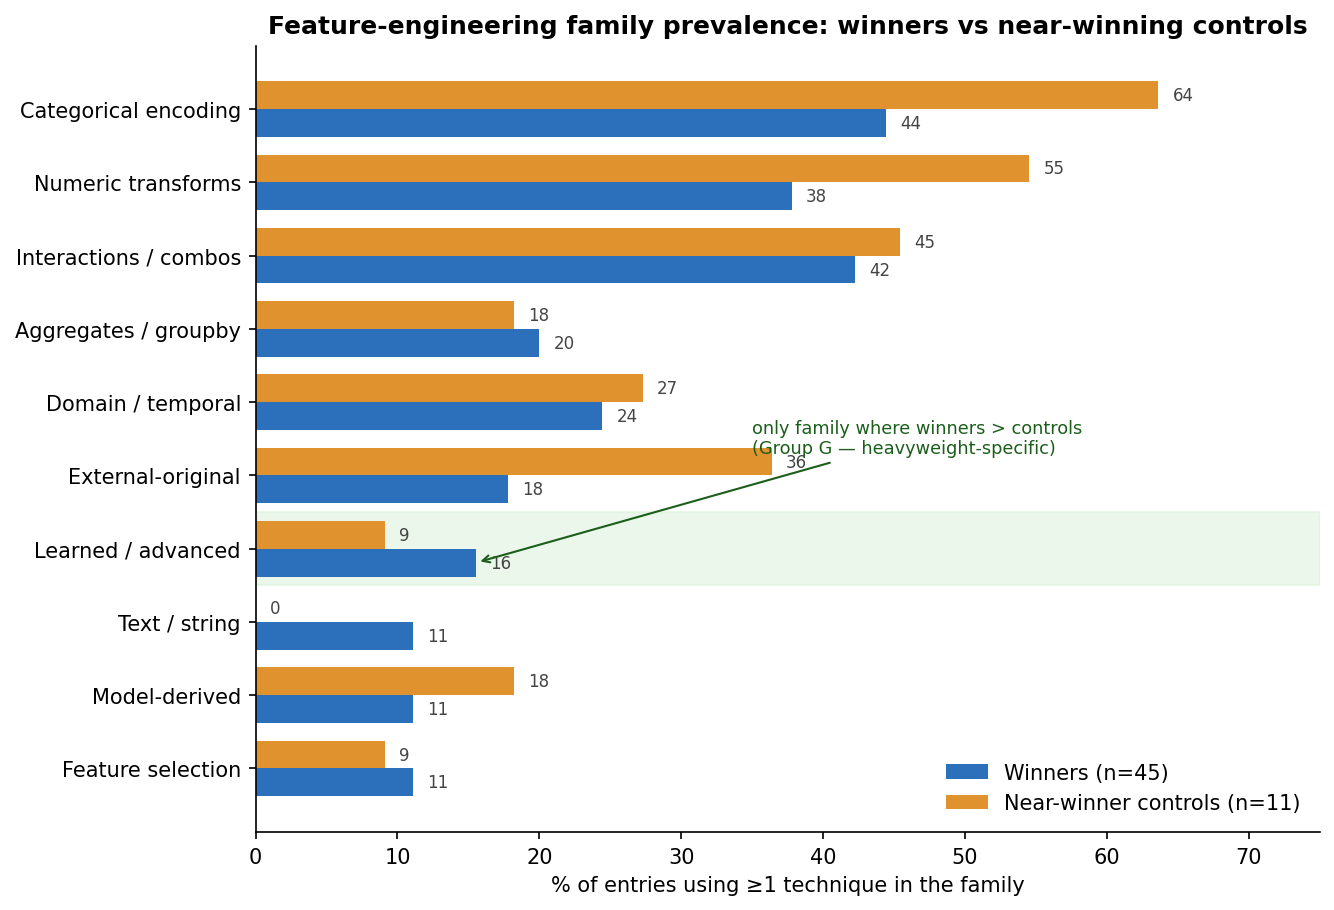
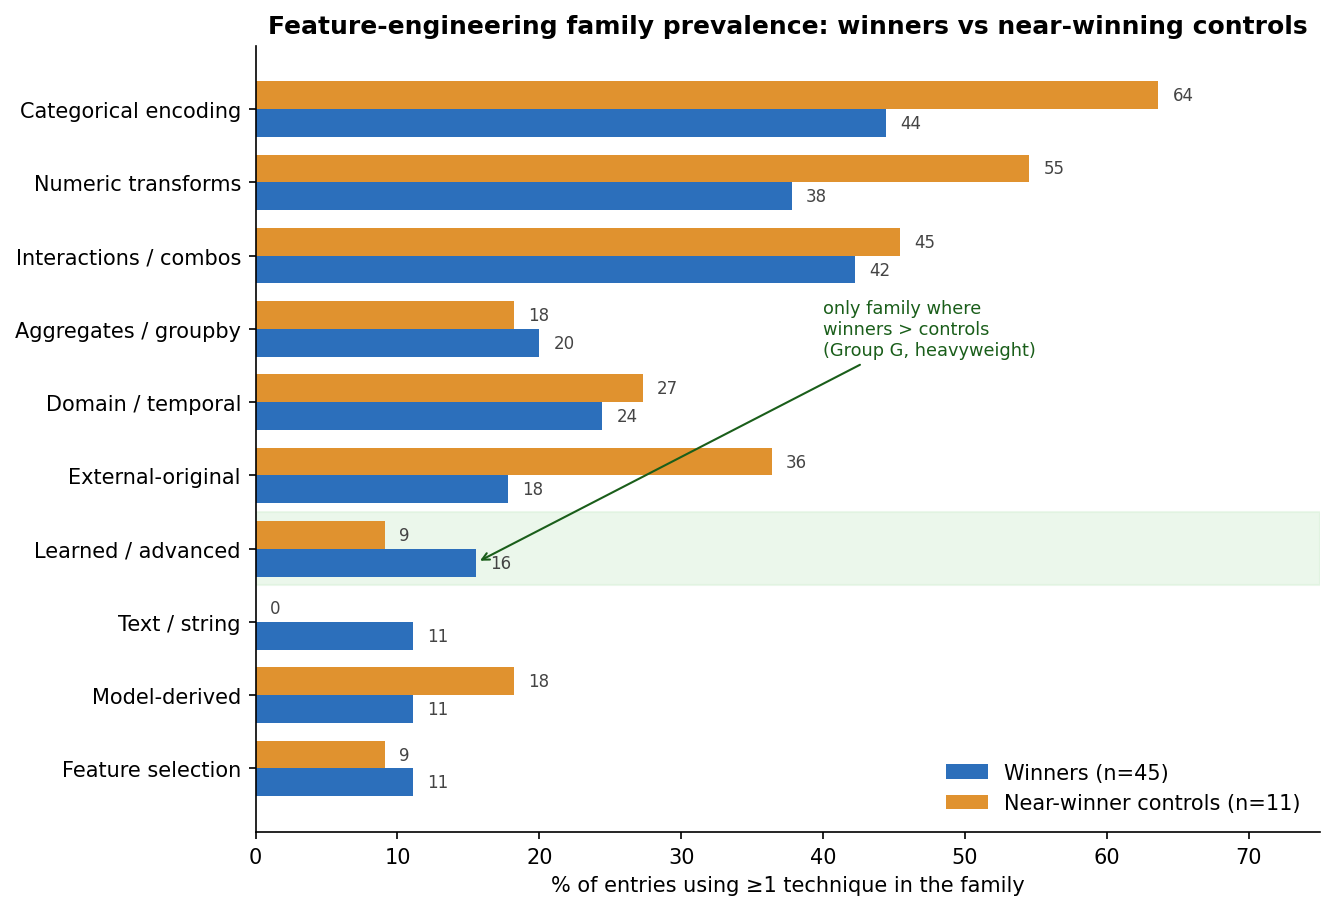
fig5: move the Group-G annotation off the bars; de-em-dash
The "only family where winners > controls" callout overlapped the External-original
bar. Repositioned it into the clear mid-right area (arrow still points to the
Learned/advanced bar), and changed "Group G -- heavyweight-specific" to
"(Group G, heavyweight)". Also fixes Figure 5 in the report (same synced figure).

diff --git a/analysis/figures/report/make_fig5_fe_prevalence.py b/analysis/figures/report/make_fig5_fe_prevalence.py
@@ -48,8 +48,9 @@ for b in (b1, b2):
 # highlight the one family where winners > controls
 gi = labels.index('Learned / advanced')
 ax.axhspan(gi - 0.5, gi + 0.5, color='#d8f0d8', alpha=0.5, zorder=0)
-ax.annotate('only family where winners > controls\n(Group G — heavyweight-specific)',
-            xy=(win[gi], gi + bh / 2), xytext=(35, gi - 1.3), fontsize=8.5, color='#1a5e1a',
+ax.annotate('only family where\nwinners > controls\n(Group G, heavyweight)',
+            xy=(win[gi], gi + bh / 2), xytext=(40, 3.0), fontsize=8.5, color='#1a5e1a',
+            ha='left', va='center',
             arrowprops=dict(arrowstyle='->', color='#1a5e1a', lw=1))
 for s in ('top', 'right'): ax.spines[s].set_visible(False)
 ax.set_xlim(0, 75)